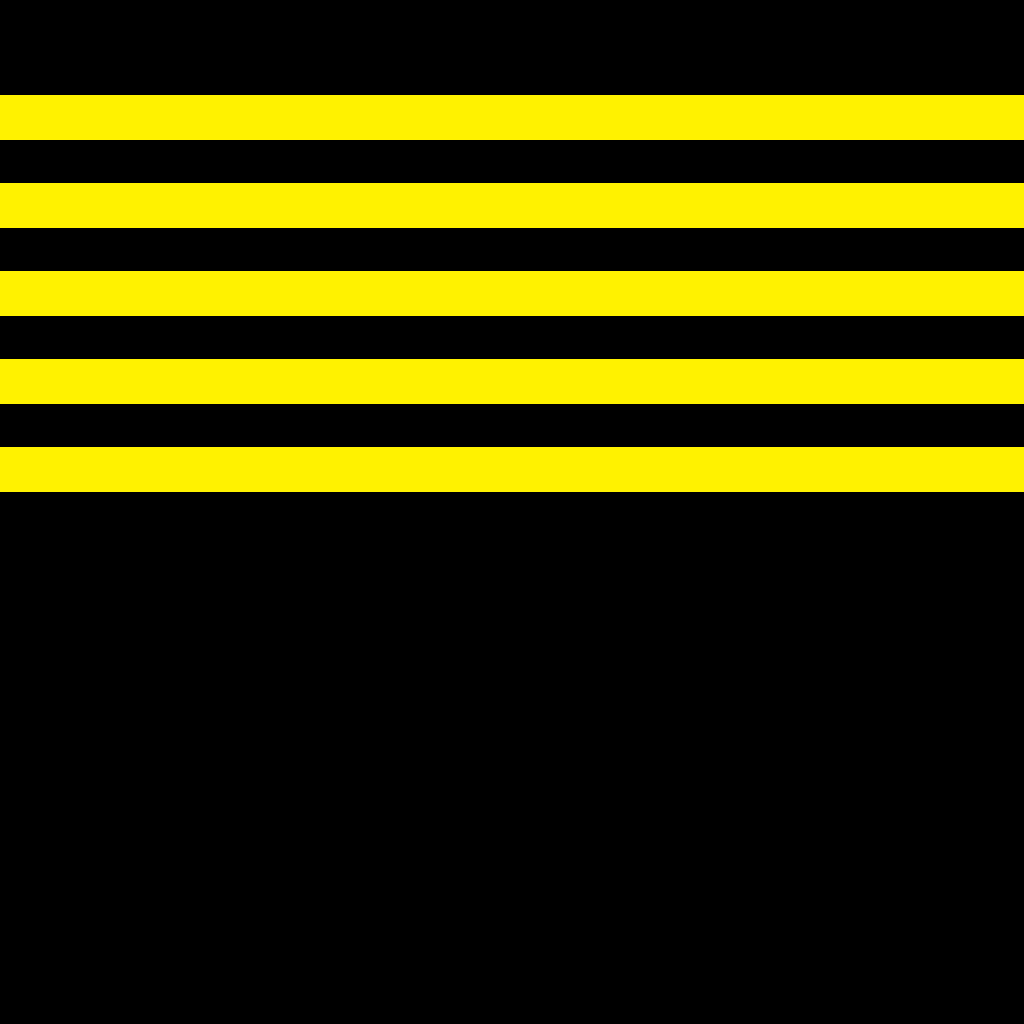
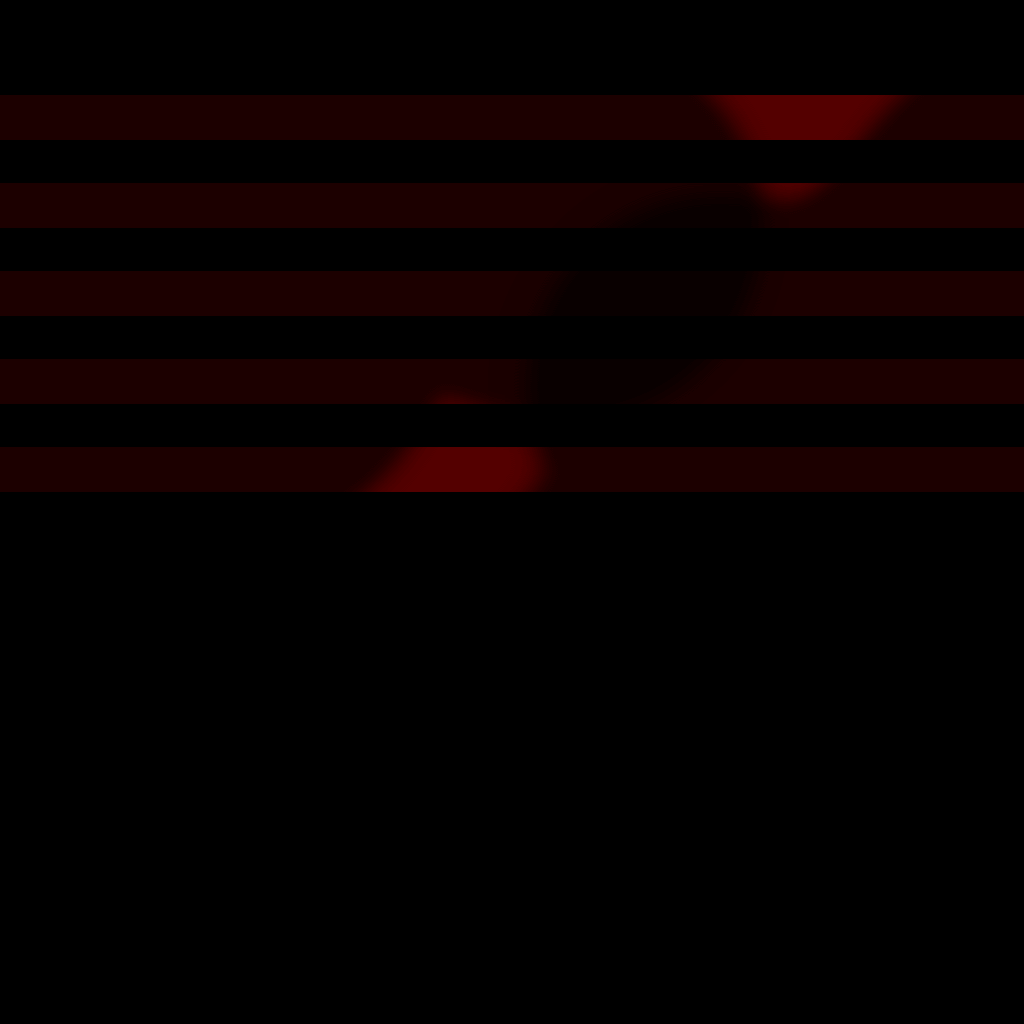
Moving emitters and heli colors

Changed region(s): [[0.0, 0.0938, 1.0, 0.3125], [0.0, 0.4375, 1.0, 0.5], [0.0, 0.3438, 1.0, 0.4062]]

diff --git a/6 Terrain/TestScene3D.cs b/6 Terrain/TestScene3D.cs
@@ -103,28 +103,28 @@ namespace TerrainTest
 
         Vector3[] p1CheckPoints = new Vector3[]
         {
-                new Vector3(+60, 0, -60),
-                new Vector3(-60, 0, -60),
-                new Vector3(+60, 0, +60),
-                new Vector3(-70, 0, +70),
+            new Vector3(+60, 0, -60),
+            new Vector3(-60, 0, -60),
+            new Vector3(+60, 0, +60),
+            new Vector3(-70, 0, +70),
         };
 
         Vector3[] p2CheckPoints = new Vector3[]
         {
-                new Vector3(+60, 0, -60),
-                new Vector3(+60, 0, +60),
-                new Vector3(-70, 0, +70),
-                new Vector3(-60, 0, -60),
-                new Vector3(+00, 0, +00),
+            new Vector3(+60, 0, -60),
+            new Vector3(+60, 0, +60),
+            new Vector3(-70, 0, +70),
+            new Vector3(-60, 0, -60),
+            new Vector3(+00, 0, +00),
         };
 
         Vector3[] hCheckPoints = new Vector3[]
         {
-                new Vector3(+60, 20, +60),
-                new Vector3(+60, 20, -60),
-                new Vector3(-70, 20, +70),
-                new Vector3(-60, 20, -60),
-                new Vector3(+00, 25, +00),
+            new Vector3(+60, 20, +60),
+            new Vector3(+60, 20, -60),
+            new Vector3(-70, 20, +70),
+            new Vector3(-60, 20, -60),
+            new Vector3(+00, 25, +00),
         };
 
         private ParticleSystemDescription pPlume = null;
@@ -293,7 +293,7 @@ namespace TerrainTest
                 Name = "Helicopter",
                 CastShadow = true,
                 Static = false,
-                TextureIndex = 2,
+                TextureIndex = 0,
             };
             this.helicopter = this.AddModel("resources/Helicopter", "Helicopter.xml", hDesc, true, this.layerObjects);
             sw.Stop();
@@ -784,7 +784,7 @@ namespace TerrainTest
             #region DEBUG Trajectory
 
             this.curveLineDrawer = this.AddLineListDrawer(new LineListDrawerDescription(), 20000, this.layerEffects);
-            this.curveLineDrawer.Visible = true;
+            this.curveLineDrawer.Visible = false;
             this.curveLineDrawer.SetLines(this.wAxisColor, Line3D.CreateAxis(Matrix.Identity, 20f));
 
             #endregion
@@ -1297,32 +1297,19 @@ namespace TerrainTest
         }
         private void Agent_Damaged(BehaviorEventArgs e)
         {
-            var p1 = e.Active.Model.GetBoundingBox().GetCenter();
-            var p2 = e.Passive.Model.GetBoundingBox().GetCenter();
-            var dir = Vector3.Normalize(p2 - p1) * 100f;
-
-            Ray r = new Ray(p1, dir);
-
-            Vector3 p;
-            Triangle t;
-            float d;
-            if (e.Passive.Model.PickFirst(ref r, true, out p, out t, out d))
-            {
-                this.AddExplosionSystem(p + this.rnd.NextVector3(new Vector3(-0.5f), new Vector3(0.5f)));
-                this.AddExplosionSystem(p + this.rnd.NextVector3(new Vector3(-0.5f), new Vector3(0.5f)));
-            }
+            this.AddExplosionSystem(e.Passive);
+            this.AddExplosionSystem(e.Passive);
+            this.AddSmokeSystem(e.Passive);
         }
         private void Agent_Destroyed(BehaviorEventArgs e)
         {
-            var p = e.Passive.Model.GetBoundingBox().GetCenter();
-
-            this.AddExplosionSystem(p + this.rnd.NextVector3(new Vector3(-1.5f), new Vector3(1.5f)));
-            this.AddExplosionSystem(p + this.rnd.NextVector3(new Vector3(-1.5f), new Vector3(1.5f)));
-            this.AddExplosionSystem(p + this.rnd.NextVector3(new Vector3(-1.5f), new Vector3(1.5f)));
-            this.AddExplosionSystem(p + this.rnd.NextVector3(new Vector3(-1.5f), new Vector3(1.5f)));
-            this.AddExplosionSystem(p + this.rnd.NextVector3(new Vector3(-1.5f), new Vector3(1.5f)));
-            this.AddExplosionSystem(p + this.rnd.NextVector3(new Vector3(-1.5f), new Vector3(1.5f)));
-            this.AddSmokePlumeSystem(p);
+            this.AddExplosionSystem(e.Passive);
+            this.AddExplosionSystem(e.Passive);
+            this.AddExplosionSystem(e.Passive);
+            this.AddExplosionSystem(e.Passive);
+            this.AddExplosionSystem(e.Passive);
+            this.AddExplosionSystem(e.Passive);
+            this.AddSmokePlumeSystem(e.Passive);
         }
 
         private void TankAgent_BehaviorBeforeChange(BehaviorChangingEventArgs e)
@@ -1385,24 +1372,22 @@ namespace TerrainTest
             }
         }
 
-        private void AddExplosionSystem(Vector3 position)
+        private void AddExplosionSystem(Agent agent)
         {
             Vector3 velocity = Vector3.Up;
             float duration = 0.5f;
             float rate = 0.1f;
 
-            var emitter1 = new ParticleEmitter()
+            var emitter1 = new MovingEmitter(agent.Model.Manipulator, Vector3.Zero)
             {
-                Position = position,
                 Velocity = velocity,
                 Duration = duration,
                 EmissionRate = rate,
                 InfiniteDuration = false,
                 MaximumDistance = 100f,
             };
-            var emitter2 = new ParticleEmitter()
+            var emitter2 = new MovingEmitter(agent.Model.Manipulator, Vector3.Zero)
             {
-                Position = position,
                 Velocity = velocity,
                 Duration = duration,
                 EmissionRate = rate * 2f,
@@ -1413,15 +1398,14 @@ namespace TerrainTest
             this.pManager.AddParticleSystem(ParticleSystemTypes.CPU, this.pExplosion, emitter1);
             this.pManager.AddParticleSystem(ParticleSystemTypes.CPU, this.pSmokeExplosion, emitter2);
         }
-        private void AddSmokePlumeSystem(Vector3 position)
+        private void AddSmokePlumeSystem(Agent agent)
         {
             Vector3 velocity = Vector3.Up;
             float duration = this.rnd.NextFloat(60, 360);
             float rate = this.rnd.NextFloat(0.1f, 1f);
 
-            var emitter1 = new ParticleEmitter()
+            var emitter1 = new MovingEmitter(agent.Model.Manipulator, Vector3.Zero)
             {
-                Position = position,
                 Velocity = velocity,
                 Duration = duration,
                 EmissionRate = rate * 0.5f,
@@ -1429,9 +1413,8 @@ namespace TerrainTest
                 MaximumDistance = 100f,
             };
 
-            var emitter2 = new ParticleEmitter()
+            var emitter2 = new MovingEmitter(agent.Model.Manipulator, Vector3.Zero)
             {
-                Position = position,
                 Velocity = velocity,
                 Duration = duration + (duration * 0.1f),
                 EmissionRate = rate,
@@ -1441,6 +1424,23 @@ namespace TerrainTest
 
             this.pManager.AddParticleSystem(ParticleSystemTypes.CPU, this.pFire, emitter1);
             this.pManager.AddParticleSystem(ParticleSystemTypes.CPU, this.pPlume, emitter2);
+        }
+        private void AddSmokeSystem(Agent agent)
+        {
+            Vector3 velocity = Vector3.Up;
+            float duration = this.rnd.NextFloat(10, 30);
+            float rate = this.rnd.NextFloat(0.1f, 1f);
+
+            var emitter = new MovingEmitter(agent.Model.Manipulator, Vector3.Zero)
+            {
+                Velocity = velocity,
+                Duration = duration + (duration * 0.1f),
+                EmissionRate = rate,
+                InfiniteDuration = false,
+                MaximumDistance = 500f,
+            };
+
+            this.pManager.AddParticleSystem(ParticleSystemTypes.CPU, this.pPlume, emitter);
         }
 
         private void DEBUGPickingPosition(Vector3 position)

diff --git a/6 Terrain/MovingEmitter.cs b/6 Terrain/MovingEmitter.cs
@@ -1,0 +1,25 @@
+using Engine;
+using Engine.Common;
+using SharpDX;
+
+namespace TerrainTest
+{
+    public class MovingEmitter : ParticleEmitter
+    {
+        private Manipulator3D manipulator;
+        private Vector3 delta;
+
+        public MovingEmitter(Manipulator3D manipulator, Vector3 delta) : base()
+        {
+            this.manipulator = manipulator;
+            this.delta = delta;
+        }
+
+        public override void Update(UpdateContext context)
+        {
+            this.Position = this.manipulator.Position + this.delta;
+
+            base.Update(context);
+        }
+    }
+}

diff --git a/6 Terrain/AI/Weapon.cs b/6 Terrain/AI/Weapon.cs
@@ -1,10 +1,5 @@
-using System;
-using System.Collections.Generic;
-using System.Linq;
-using System.Text;
-using System.Threading.Tasks;
+using Engine;
 using SharpDX;
-using Engine;
 
 namespace TerrainTest.AI
 {
@@ -55,13 +50,5 @@ namespace TerrainTest.AI
         {
             this.lastAttackTime -= delay;
         }
-    }
-
-    struct WeaponDescription
-    {
-        public string Name;
-        public float Cadence;
-        public float Damage;
-        public float Range;
     }
 }

diff --git a/6 Terrain/AI/WeaponDescription.cs b/6 Terrain/AI/WeaponDescription.cs
@@ -1,0 +1,10 @@
+namespace TerrainTest.AI
+{
+    struct WeaponDescription
+    {
+        public string Name;
+        public float Cadence;
+        public float Damage;
+        public float Range;
+    }
+}
